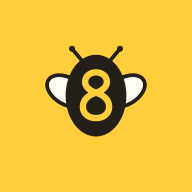
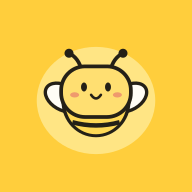
Refresh Hajime 8 Chan bee and welcome message

Changed region(s): [[0.1875, 0.2188, 0.8125, 0.8125]]

diff --git a/hajime8/style.css b/hajime8/style.css
@@ -20,6 +20,7 @@ body { margin: 0; }
 header { display: flex; align-items: center; gap: 10px; margin-bottom: 10px; }
 header img { border-radius: 12px; }
 header p { font-weight: 750; margin: 0 0 2px; font-size: .875rem; }
+header .welcome { margin: 4px 0 0; color: #594d31; }
 h1 { font-size: clamp(1.35rem, 4vw, 1.9rem); line-height: 1.12; margin: 0; }
 
 main, .display { display: grid; gap: 8px; align-content: start; }
@@ -70,4 +71,14 @@ button:focus-visible { outline: 2px solid var(--ink); outline-offset: -4px; }
   header { margin-bottom: 6px; }
   .keys button { min-height: 44px; }
   .panel strong, .panel output { font-size: clamp(2.55rem, 14vh, 4.25rem); }
+}
+
+@media (max-height: 650px) and (max-width: 659px) {
+  .panel { padding-block: 6px; }
+  header { margin-bottom: 7px; }
+}
+
+@media (orientation: landscape) and (max-height: 500px) and (min-width: 500px) {
+  header { position: relative; }
+  header .welcome { position: absolute; top: 50%; right: 0; margin: 0; transform: translateY(-50%); }
 }

diff --git a/hajime8/index.html b/hajime8/index.html
@@ -18,7 +18,11 @@
   <div class="shell">
     <header>
       <img src="./icon.svg" alt="" width="44" height="44">
-      <div><p>ハチハチ倶楽部</p><h1>はじめの８チャン</h1></div>
+      <div>
+        <p>ハチハチ倶楽部</p>
+        <h1>はじめの８チャン</h1>
+        <p class="welcome">入店時間を入れてね♪</p>
+      </div>
     </header>
     <main>
       <section class="display" aria-label="時刻">

diff --git a/hajime8/sw.js b/hajime8/sw.js
@@ -1,6 +1,6 @@
 'use strict';
 
-const cacheName = 'hajime8-v2';
+const cacheName = 'hajime8-v3';
 const scope = self.registration.scope;
 const entry = new URL('index.html', scope).href;
 const assets = new Set([
